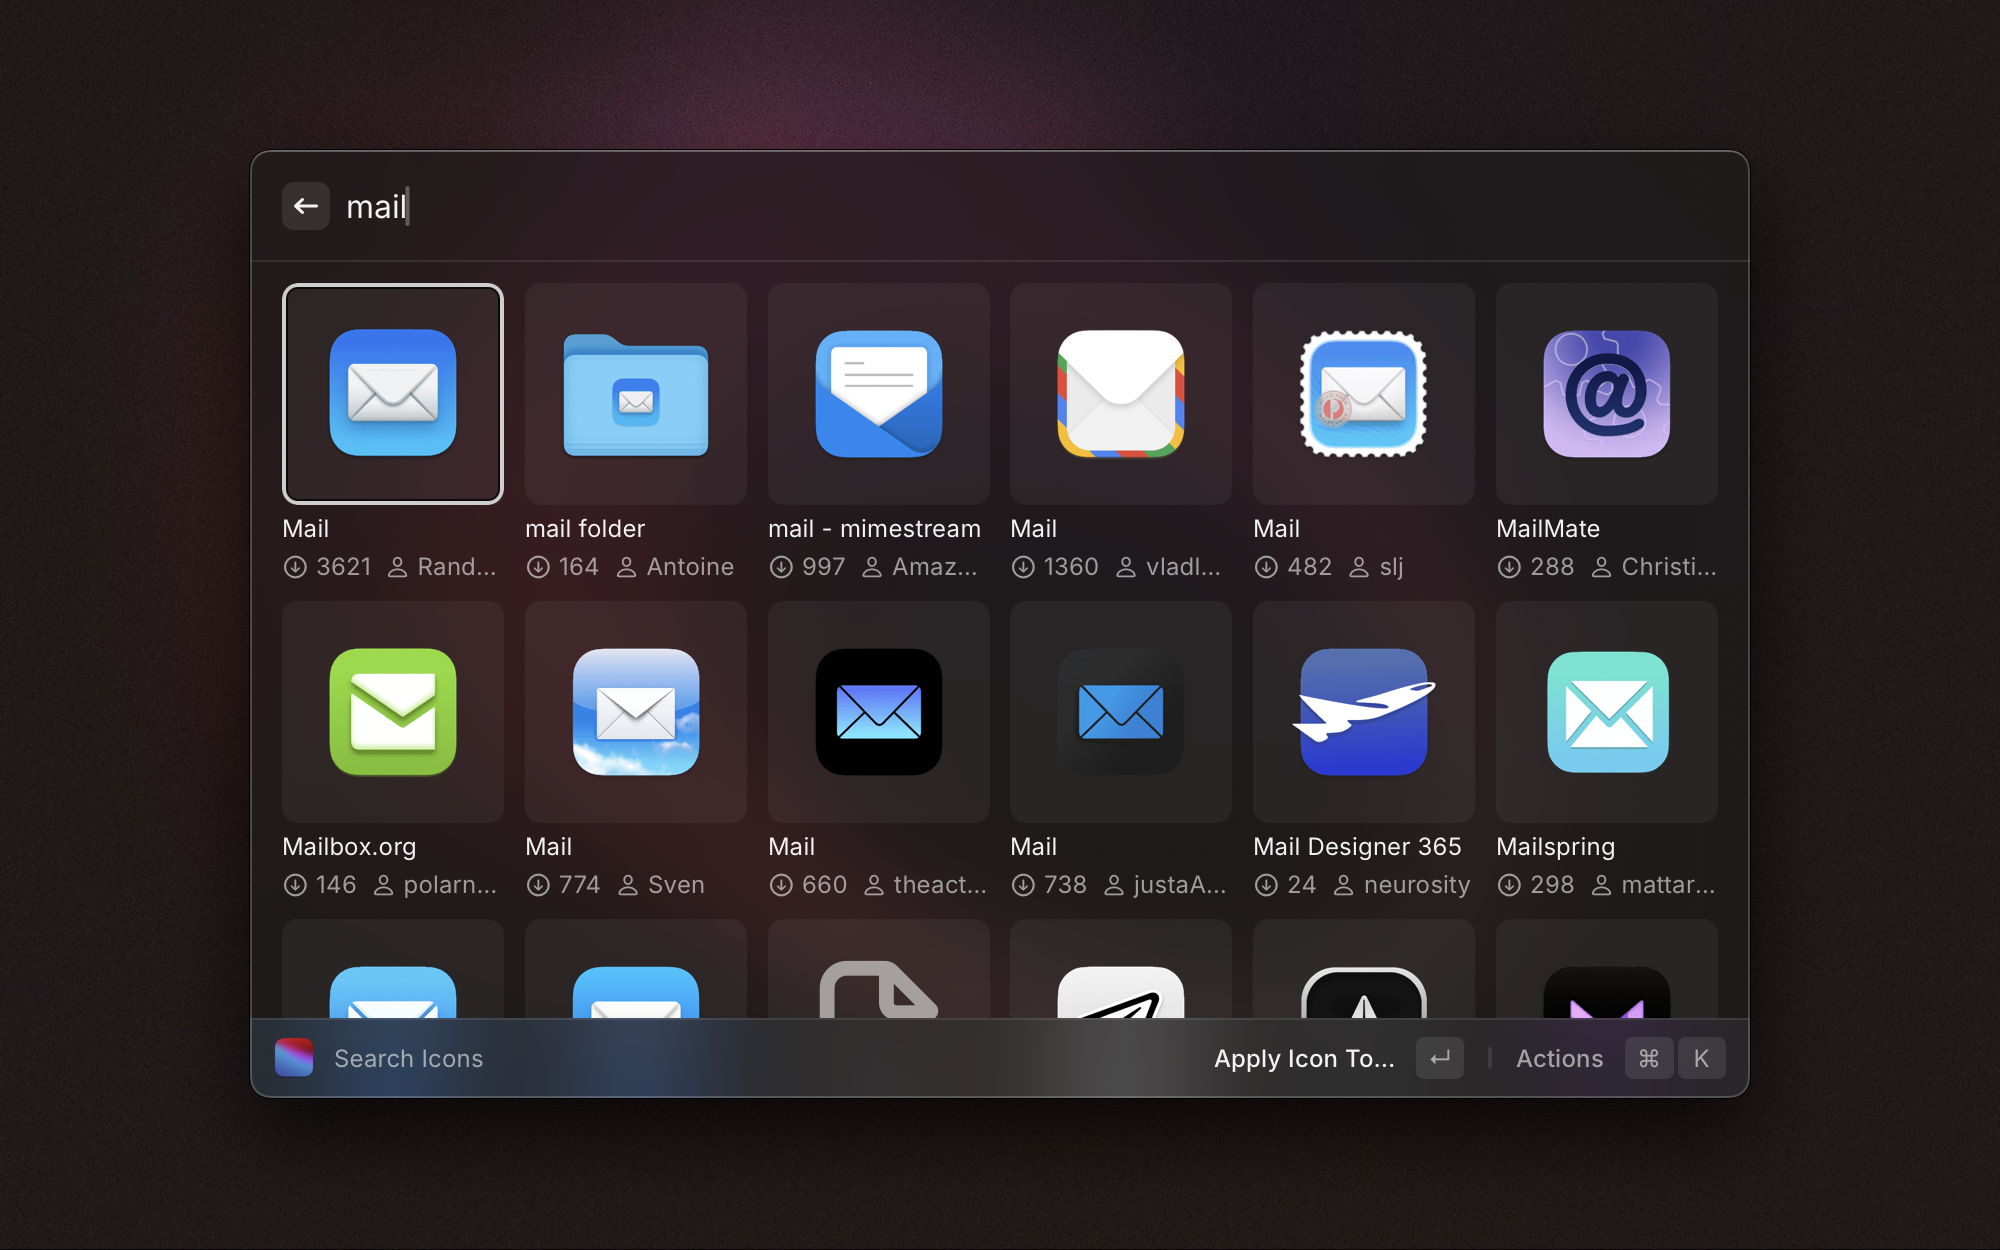
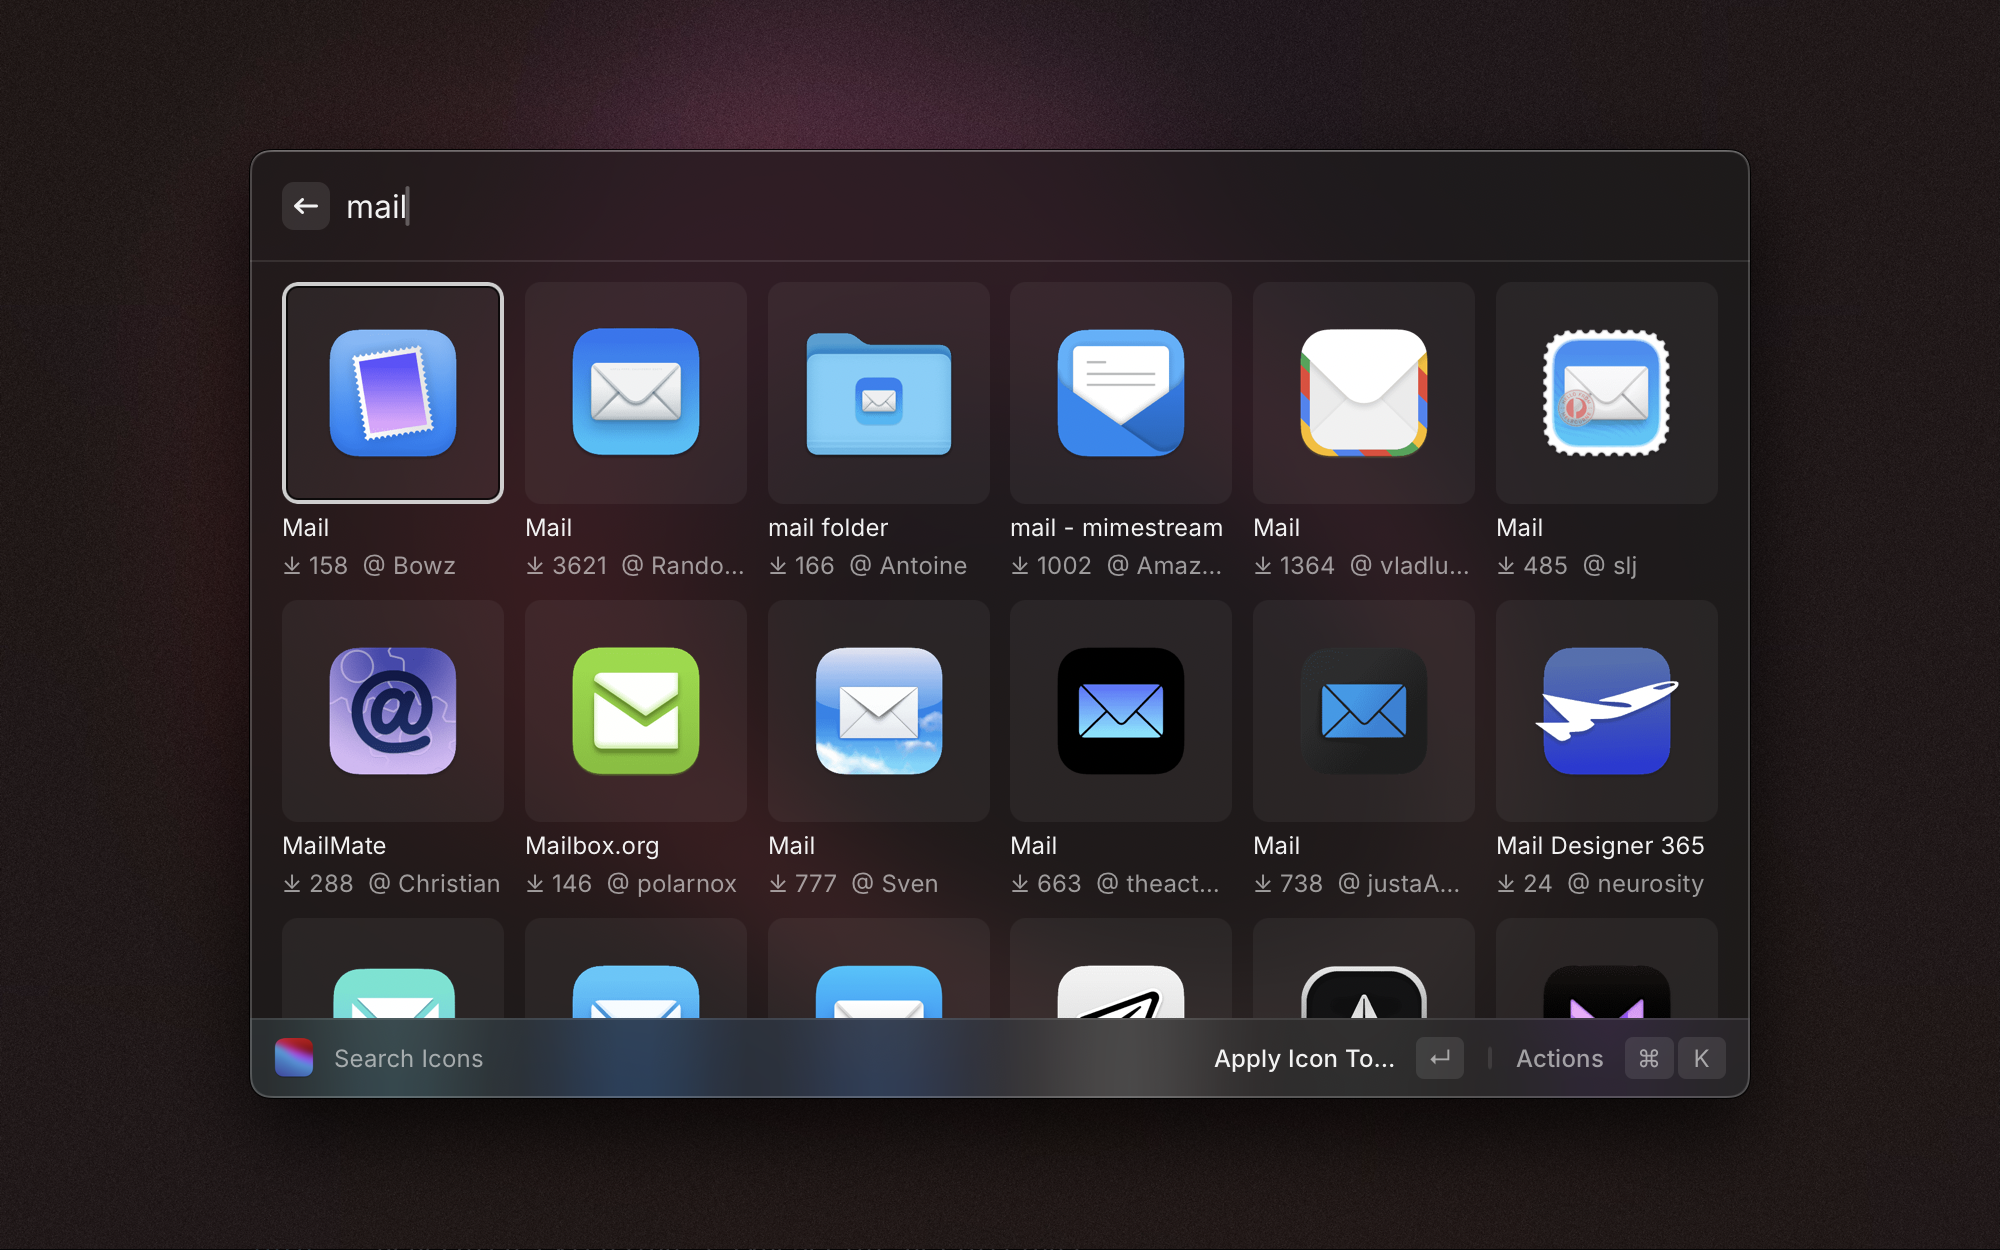
Update screenshots and refine subtitle formatting in components

diff --git a/src/search-icons.tsx b/src/search-icons.tsx
@@ -6,7 +6,6 @@ import {
   openCommandPreferences,
 } from "@raycast/api";
 import { showFailureToast, useCachedPromise, usePromise } from "@raycast/utils";
-import { useRef } from "react";
 import { IconActions } from "./components/icon-actions.tsx";
 import { search } from "./helpers/api.ts";
 import { Store } from "./helpers/store.ts";
@@ -20,7 +19,6 @@ export default function SearchIconsCommand() {
   );
 
   const { debouncedValue: searchText, setValue } = useDebounce("", 400);
-  const abortable = useRef<AbortController>();
 
   const { isLoading, data, pagination } = useCachedPromise(
     (searchText: string) => async (options: { page: number }) => {
@@ -48,7 +46,6 @@ export default function SearchIconsCommand() {
     },
     [searchText],
     {
-      abortable,
       keepPreviousData: true,
     },
   );
@@ -72,7 +69,7 @@ export default function SearchIconsCommand() {
             fallback: Icon.DeleteDocument,
           }}
           title={icon.name}
-          subtitle={` ${icon.downloads}   ${icon.usersName}`}
+          subtitle={`⤓ ${icon.downloads}  @ ${icon.usersName}`}
           accessory={
             favorites?.find((f) => f.objectID === icon.objectID)
               ? {

diff --git a/src/helpers/icons.ts b/src/helpers/icons.ts
@@ -43,7 +43,12 @@ export async function getDefaultIconPath(app: Application) {
     `defaults read '${app.path}/Contents/Info' CFBundleIconFile`,
   );
 
-  return `${app.path}/Contents/Resources/${stdout.trim()}`;
+  const iconName = stdout.trim();
+  const iconNameWithExtension = iconName.endsWith(".icns")
+    ? iconName
+    : `${iconName}.icns`;
+
+  return `${app.path}/Contents/Resources/${iconNameWithExtension}`;
 }
 
 export async function relaunchApplication(app: Application) {

diff --git a/src/manage-icons.tsx b/src/manage-icons.tsx
@@ -178,7 +178,7 @@ function ApplicationSection({
         <Grid.Item
           key={icon.objectID}
           title={icon.name}
-          subtitle={` ${timeAgo.format(icon.updatedAt, "mini-now")}   ${icon.usersName}`}
+          subtitle={timeAgo.format(icon.updatedAt)}
           content={{
             source: icon.lowResPngUrl,
             fallback: Icon.DeleteDocument,
